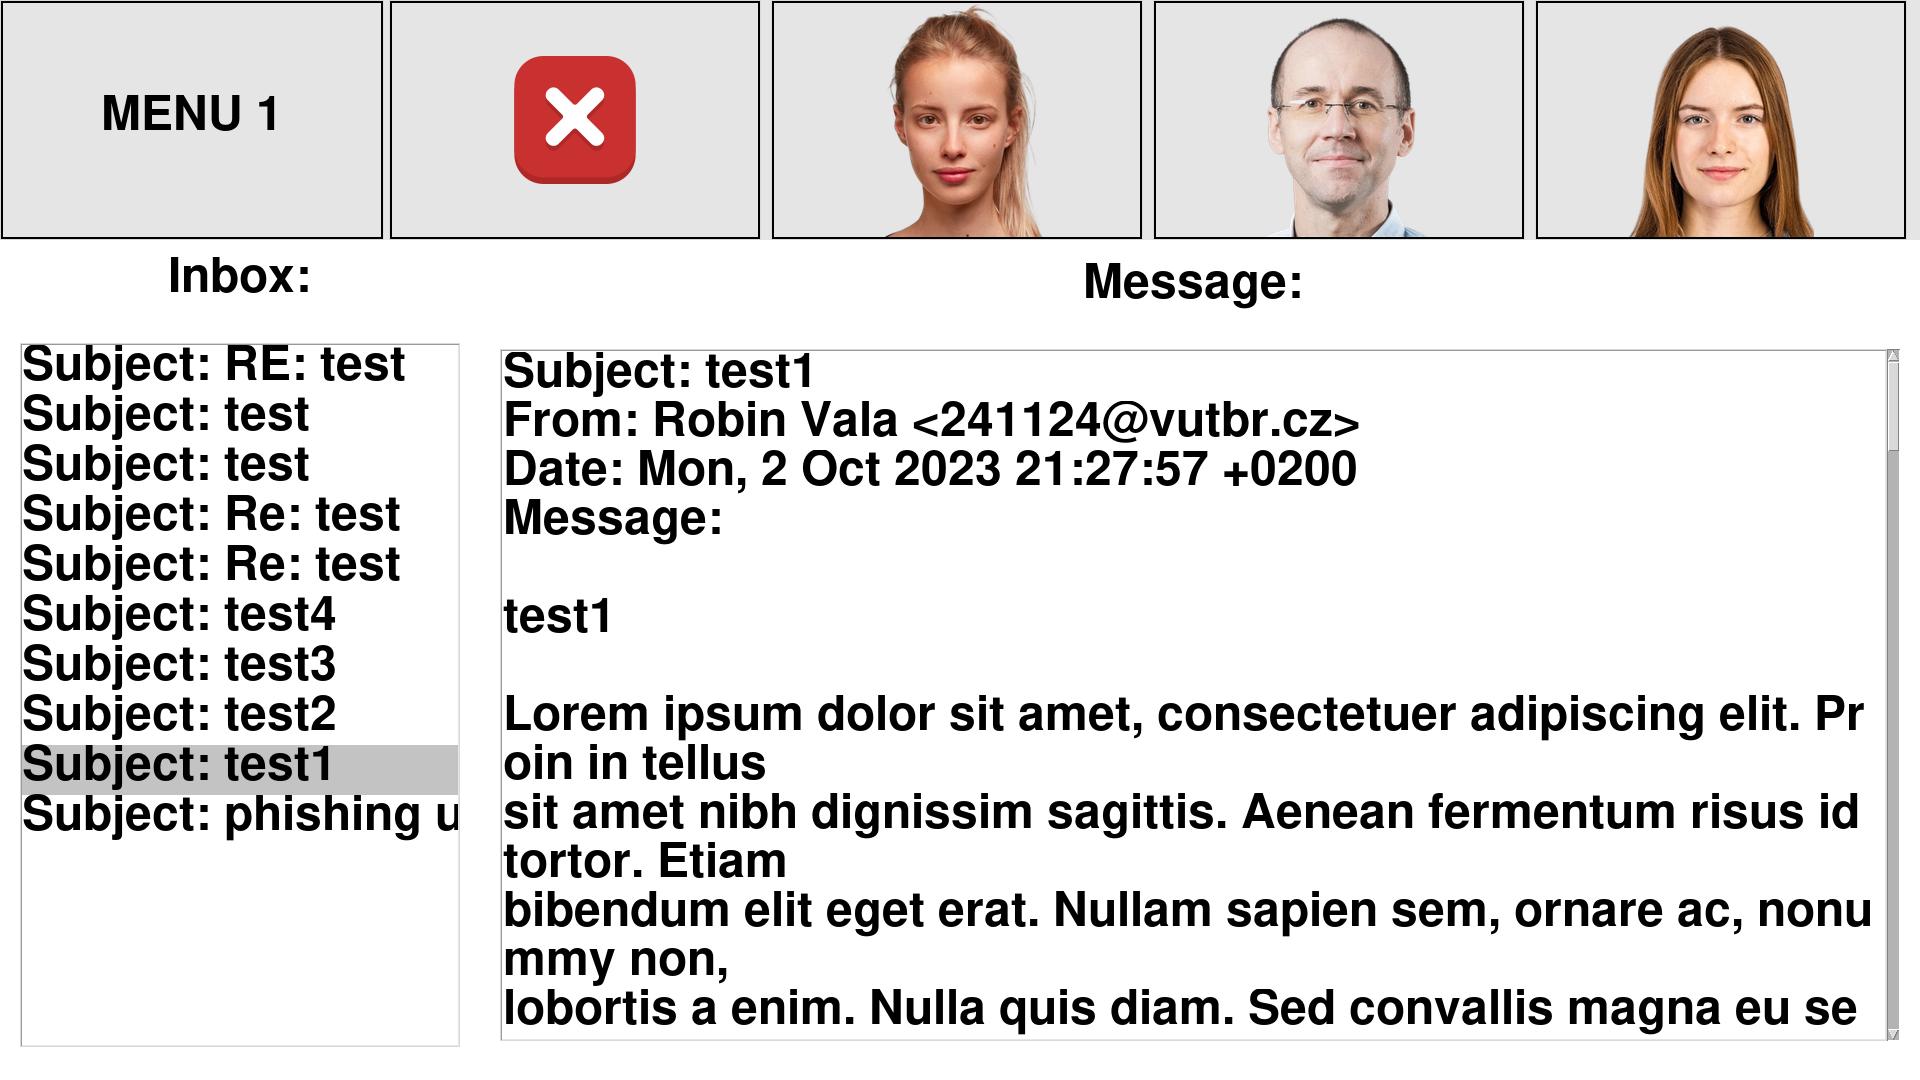
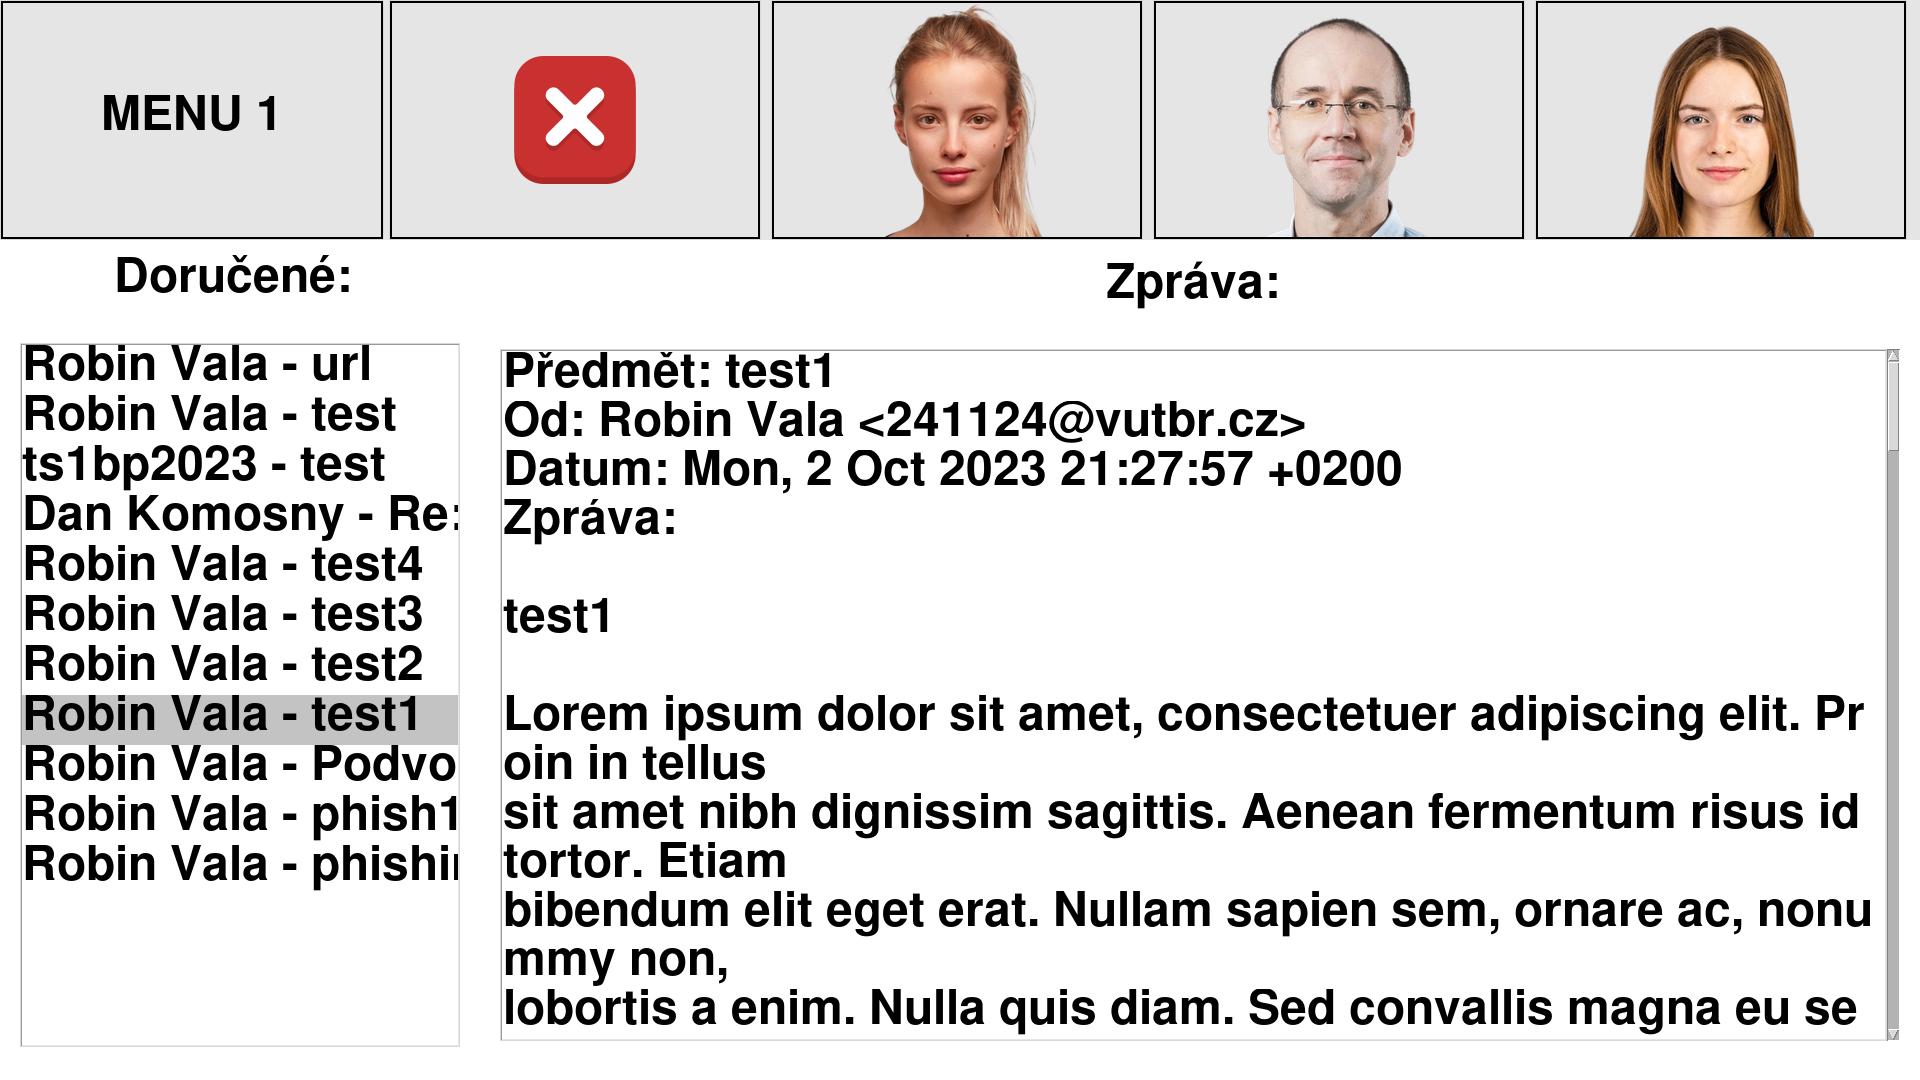
updated screens, refreshing inbox, sending mail from command line

Changed region(s): [[0.0, 0.3056, 0.75, 0.825], [0.5625, 0.2444, 0.6875, 0.3056], [0.0625, 0.2139, 0.1875, 0.275]]

diff --git a/smail/layout.py b/smail/layout.py
@@ -1,4 +1,5 @@
 import logging
+import sys
 import threading
 import tkinter as tk
 import webbrowser
@@ -51,12 +52,20 @@ class one_frame(tk.Frame):
         self.pack()
 
         # Start a background thread to load emails
-        self.loading_emails = threading.Thread(target=self.load_emails)
+        self.loading_emails = threading.Thread(target=self.periodic_email_loading)
         self.loading_emails.start()
 
     def load_emails(self):
         # function that initializes loading emails
         self.insert_emails()
+
+    def periodic_email_loading(self):
+        while True:
+            # Load and insert emails
+            self.load_emails()
+            self.after(10000,self.periodic_email_loading())
+
+
 
     def redefine_template_buttons(self):
         try:
@@ -123,6 +132,7 @@ class one_frame(tk.Frame):
             self.audio_configure(self.menu_button_2, "menu2")
 
             self.exit_button.config(
+                command = sys.exit,
                 image=self.exit_image,
                 text="",
                 width=self.button_width
@@ -176,6 +186,7 @@ class one_frame(tk.Frame):
             logger.error("KeyError:", exc_info=True)
         except Exception:
             logger.error("Error:", exc_info=True)
+
 
     def left_frame(self):
 
@@ -342,23 +353,28 @@ class one_frame(tk.Frame):
 
         # inserting emails into the listbox,
         # for now safe_emails and phish_emails are separated
+        self.inbox_list.delete(0, tk.END)
+        print("Clearing the listbox")
 
         for n in self.safe_emails:
             self.name = get_email_sender(n.split("\n")[1])
             self.sub = n.split("\n")[0].split(":",1)[1]
 
-            self.inbox_list.insert(tk.END, self.name +" -"+ self.sub)
+            self.inbox_list.insert(tk.END, f"{self.name} - {self.sub}")
             # binding listbox to text area to view email
             self.inbox_list.bind("<<ListboxSelect>>", self.showEmail)
+
 
 
         for m in self.phish_emails:
             self.name = get_email_sender(m.split("\n")[1])
             self.sub = m.split("\n")[0].split(":", 1)[1]
 
-            self.inbox_list.insert(tk.END, self.name +" -"+ self.sub)
+            self.inbox_list.insert(tk.END, f"{self.name} - {self.sub}")
             # binding listbox to text area to view email
             self.inbox_list.bind("<<ListboxSelect>>", self.showEmail)
+
+        print("Inserting emails into listbox")
 
 
 
@@ -403,15 +419,15 @@ class one_frame(tk.Frame):
     def display_email(self, email):
         # Display the entire email content in the text area
         self.message_area.insert(tk.END, email)
-        self.tag_urls()
+        self.mark_email()
 
-    def tag_urls(self):
+    def mark_email(self):
         # Find all URLs in email and tag them
         for match in re.finditer(r'https?://\S+|www\.\S+', self.message_area.get("1.0", tk.END)):
             url = match.group()
-            self.tag_and_bind_url(url)
+            self.mark_and_link_email(url)
 
-    def tag_and_bind_url(self, url):
+    def mark_and_link_email(self, url):
         # Tag and bind URL in the text area for click event
         start_pos = "1.0"
         while True:

diff --git a/smail/connection/mail_connection.py b/smail/connection/mail_connection.py
@@ -30,6 +30,8 @@ sslContext = ssl.create_default_context()
 
 
 phish_senders = []
+resend_emails_g = False
+
 
 
 def send_email(recipient, subject, content):
@@ -49,12 +51,7 @@ def send_email(recipient, subject, content):
             server.login(login, password)
             server.sendmail(login, recipient, msg.as_string())
             if recipient in phish_senders:
-                content = f"Senior send reply email to phishing email ({recipient}) with content:\n" + content
-                msg = MIMEText(content)
-                msg['Subject'] = f"Reply to phish email by {login}"
-                msg['From'] = login
-                server.sendmail(login, get_guardian_email(), msg.as_string())
-                logger.warning(f"An email has been sent to {recipient}! Resending email to guardian: {get_guardian_email()}!")
+                resend_reply(recipient,content,server)
         logger.info(f"An email has been sent to {recipient}.")
         # returning 1 if email was send successfully
         return 1
@@ -73,8 +70,16 @@ def send_email(recipient, subject, content):
         return 0
 
 
-def read_mail():
+def resend_reply(recipient, content, server):
+    content = f"Senior send reply email to phishing email ({recipient}) with content:\n" + content
+    msg = MIMEText(content)
+    msg['Subject'] = f"Reply to phish email by {login}"
+    msg['From'] = login
+    server.sendmail(login, get_guardian_email(), msg.as_string())
+    logger.warning(f"An email has been sent to {recipient}! Resending email to guardian: {get_guardian_email()}!")
 
+def read_mail():
+    global resend_emails_g
     language, text = get_language()
     lang_subject = text[f"smail_{language}_subjectLabel"]
     lang_from = text[f"smail_{language}_from"]
@@ -97,6 +102,7 @@ def read_mail():
         # _, discards the first return value from mail.search
         _, selected_mails = mail.search(None, 'ALL')
         email_ids = selected_mails[0].split()
+
 
         emails = []
         subjects = []
@@ -149,7 +155,10 @@ def read_mail():
                     subjects.append(decoded_subject)
                     break
 
-        resend_mail_to_guardian(emails)
+        if not resend_emails_g:
+            resend_mail_to_guardian(emails)
+            resend_emails_g = True
+
 
         logger.info(f"{len(emails)} emails successfully loaded")
 

diff --git a/smail/connection/command_line_mail.py b/smail/connection/command_line_mail.py
@@ -1,0 +1,47 @@
+import datetime
+import json
+import smtplib
+import ssl
+import sys
+from email.mime.text import MIMEText
+
+with open("../../sconf/SMAIL_config.json", "r") as f:
+    data = json.load(f)
+credentials = data["credentials"]
+login = credentials["username"]
+password = credentials["password"]
+smtp_server = credentials["smtp_server"]
+smtp_port = credentials["smtp_port"]
+sslContext = ssl.create_default_context()
+
+def send_email(recipient, content):
+
+    date = datetime.datetime.now().strftime("%Y-%m-%d")
+    msg = MIMEText(content)
+    msg['Subject'] = f"Report, date: {date}"
+    msg['From'] = login
+    msg['To'] = recipient
+
+
+    try:
+        # establishing SMTP connection to the SMTP server
+        with smtplib.SMTP(
+                smtp_server, smtp_port
+        ) as server:
+            server.starttls(context=sslContext)
+            server.login(login, password)
+            server.sendmail(login, recipient, msg.as_string())
+            print("Email send succesfuly.")
+
+    except Exception:
+        print("Error occurred when trying to send email.")
+
+if __name__ == "__main__":
+    if len(sys.argv) != 3:
+        print("Usage: python command_line_mail.py <recipient_email> <email_content>")
+        sys.exit(1)
+
+    recipient_email = sys.argv[1]
+    email_content = sys.argv[2]
+
+    send_email(recipient_email, email_content)
